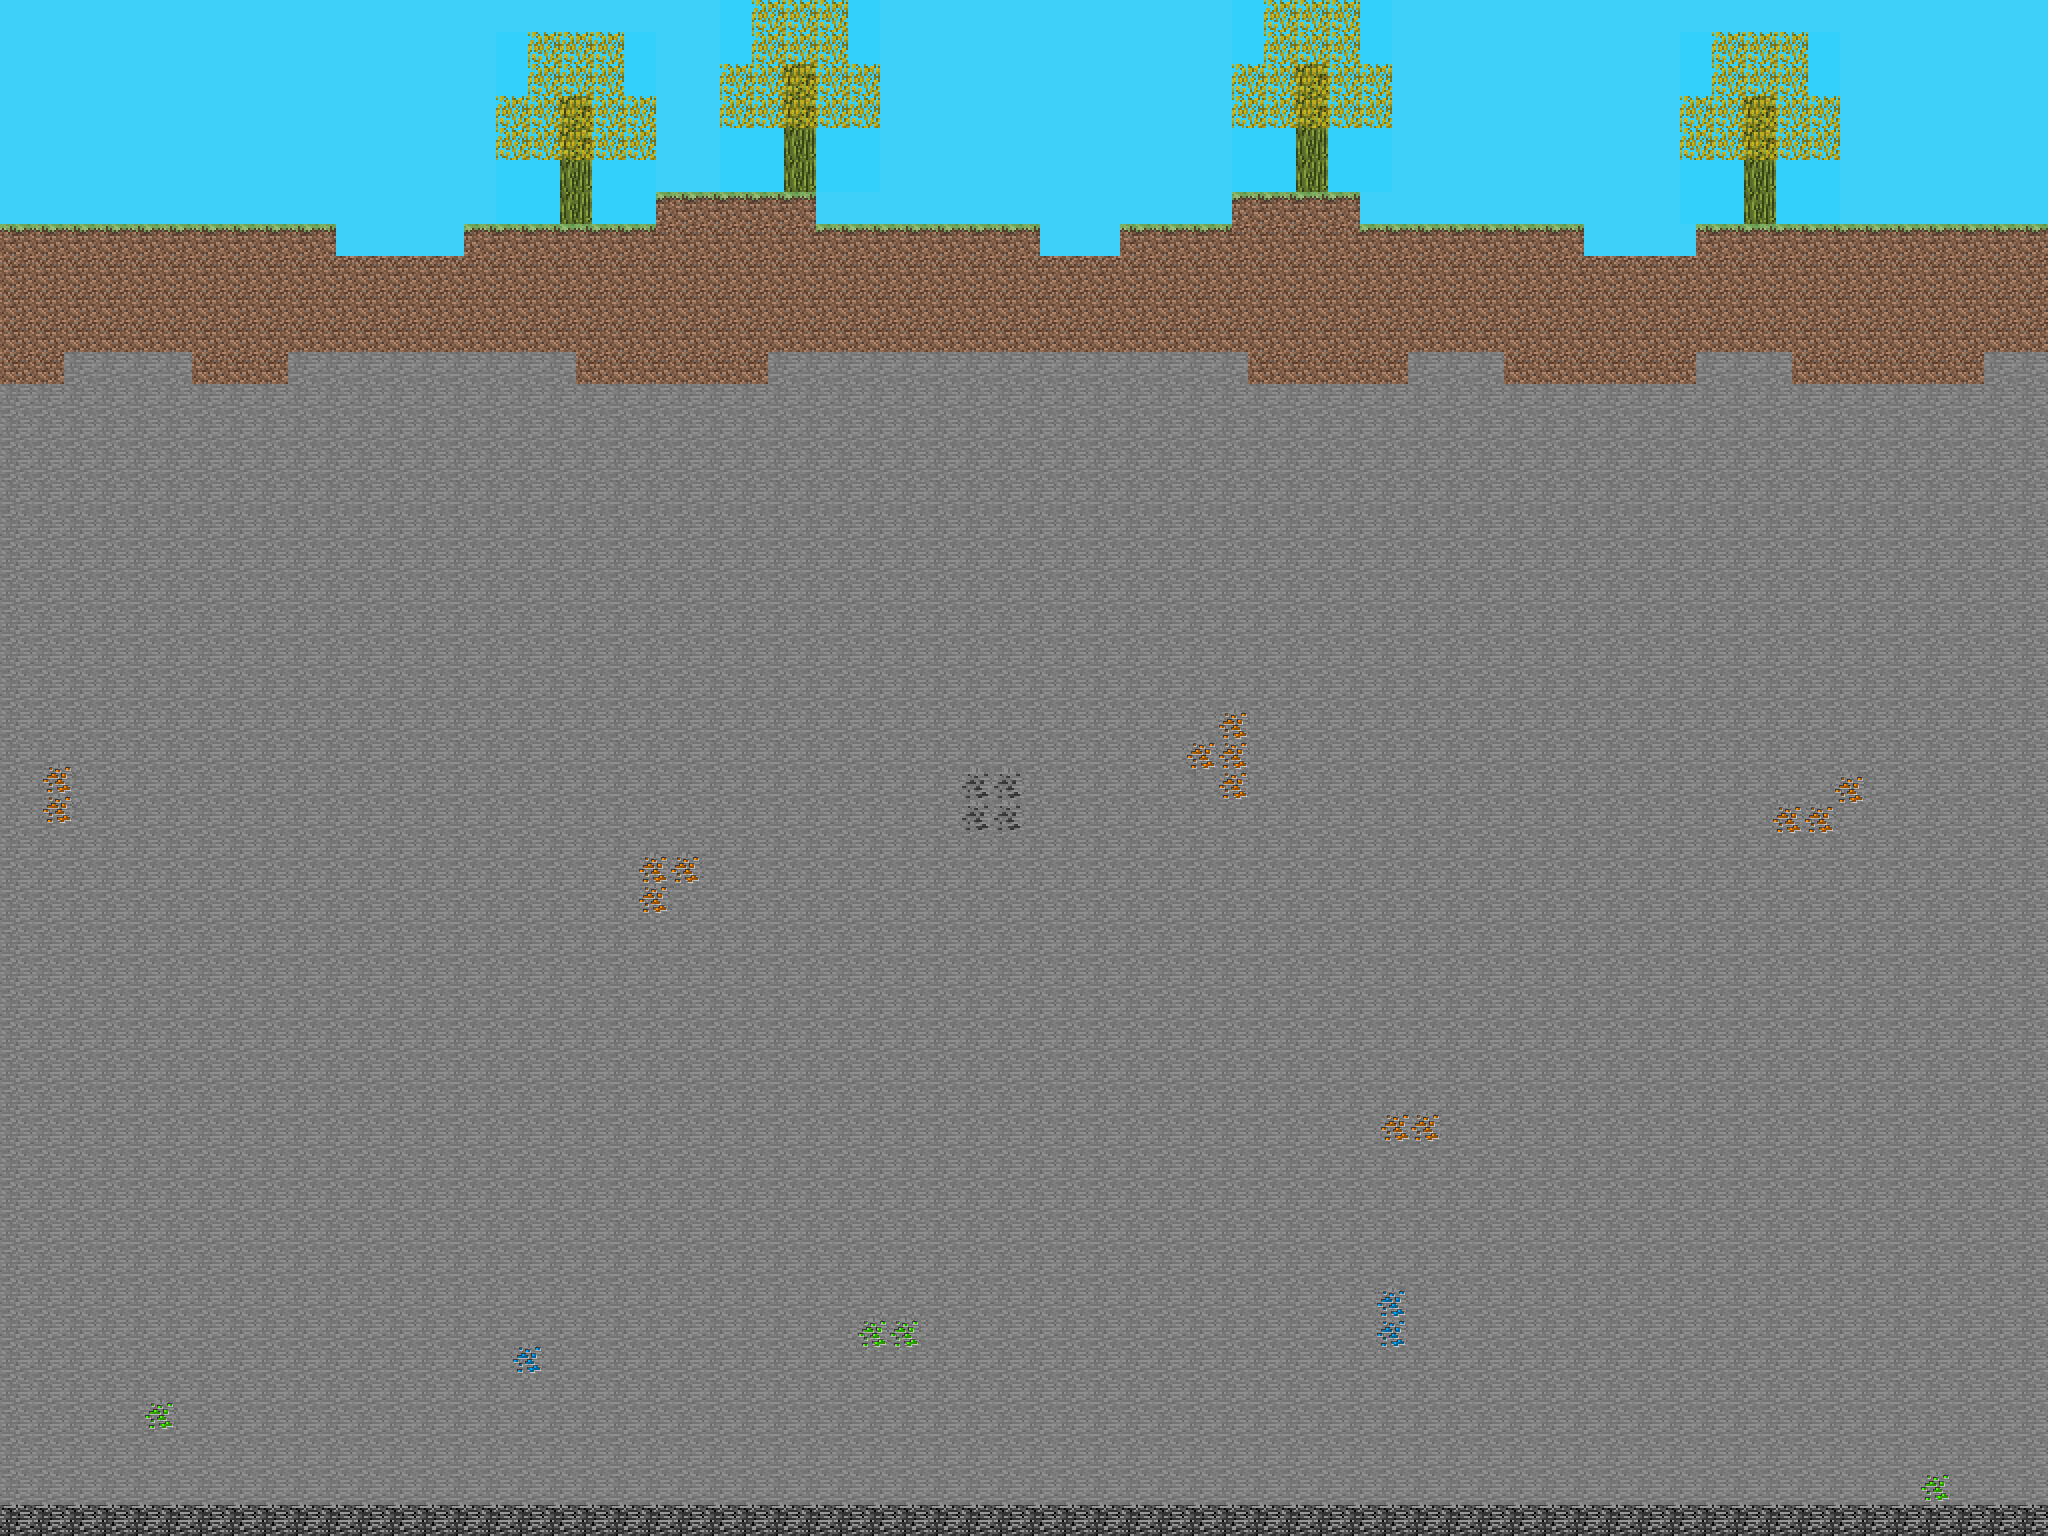
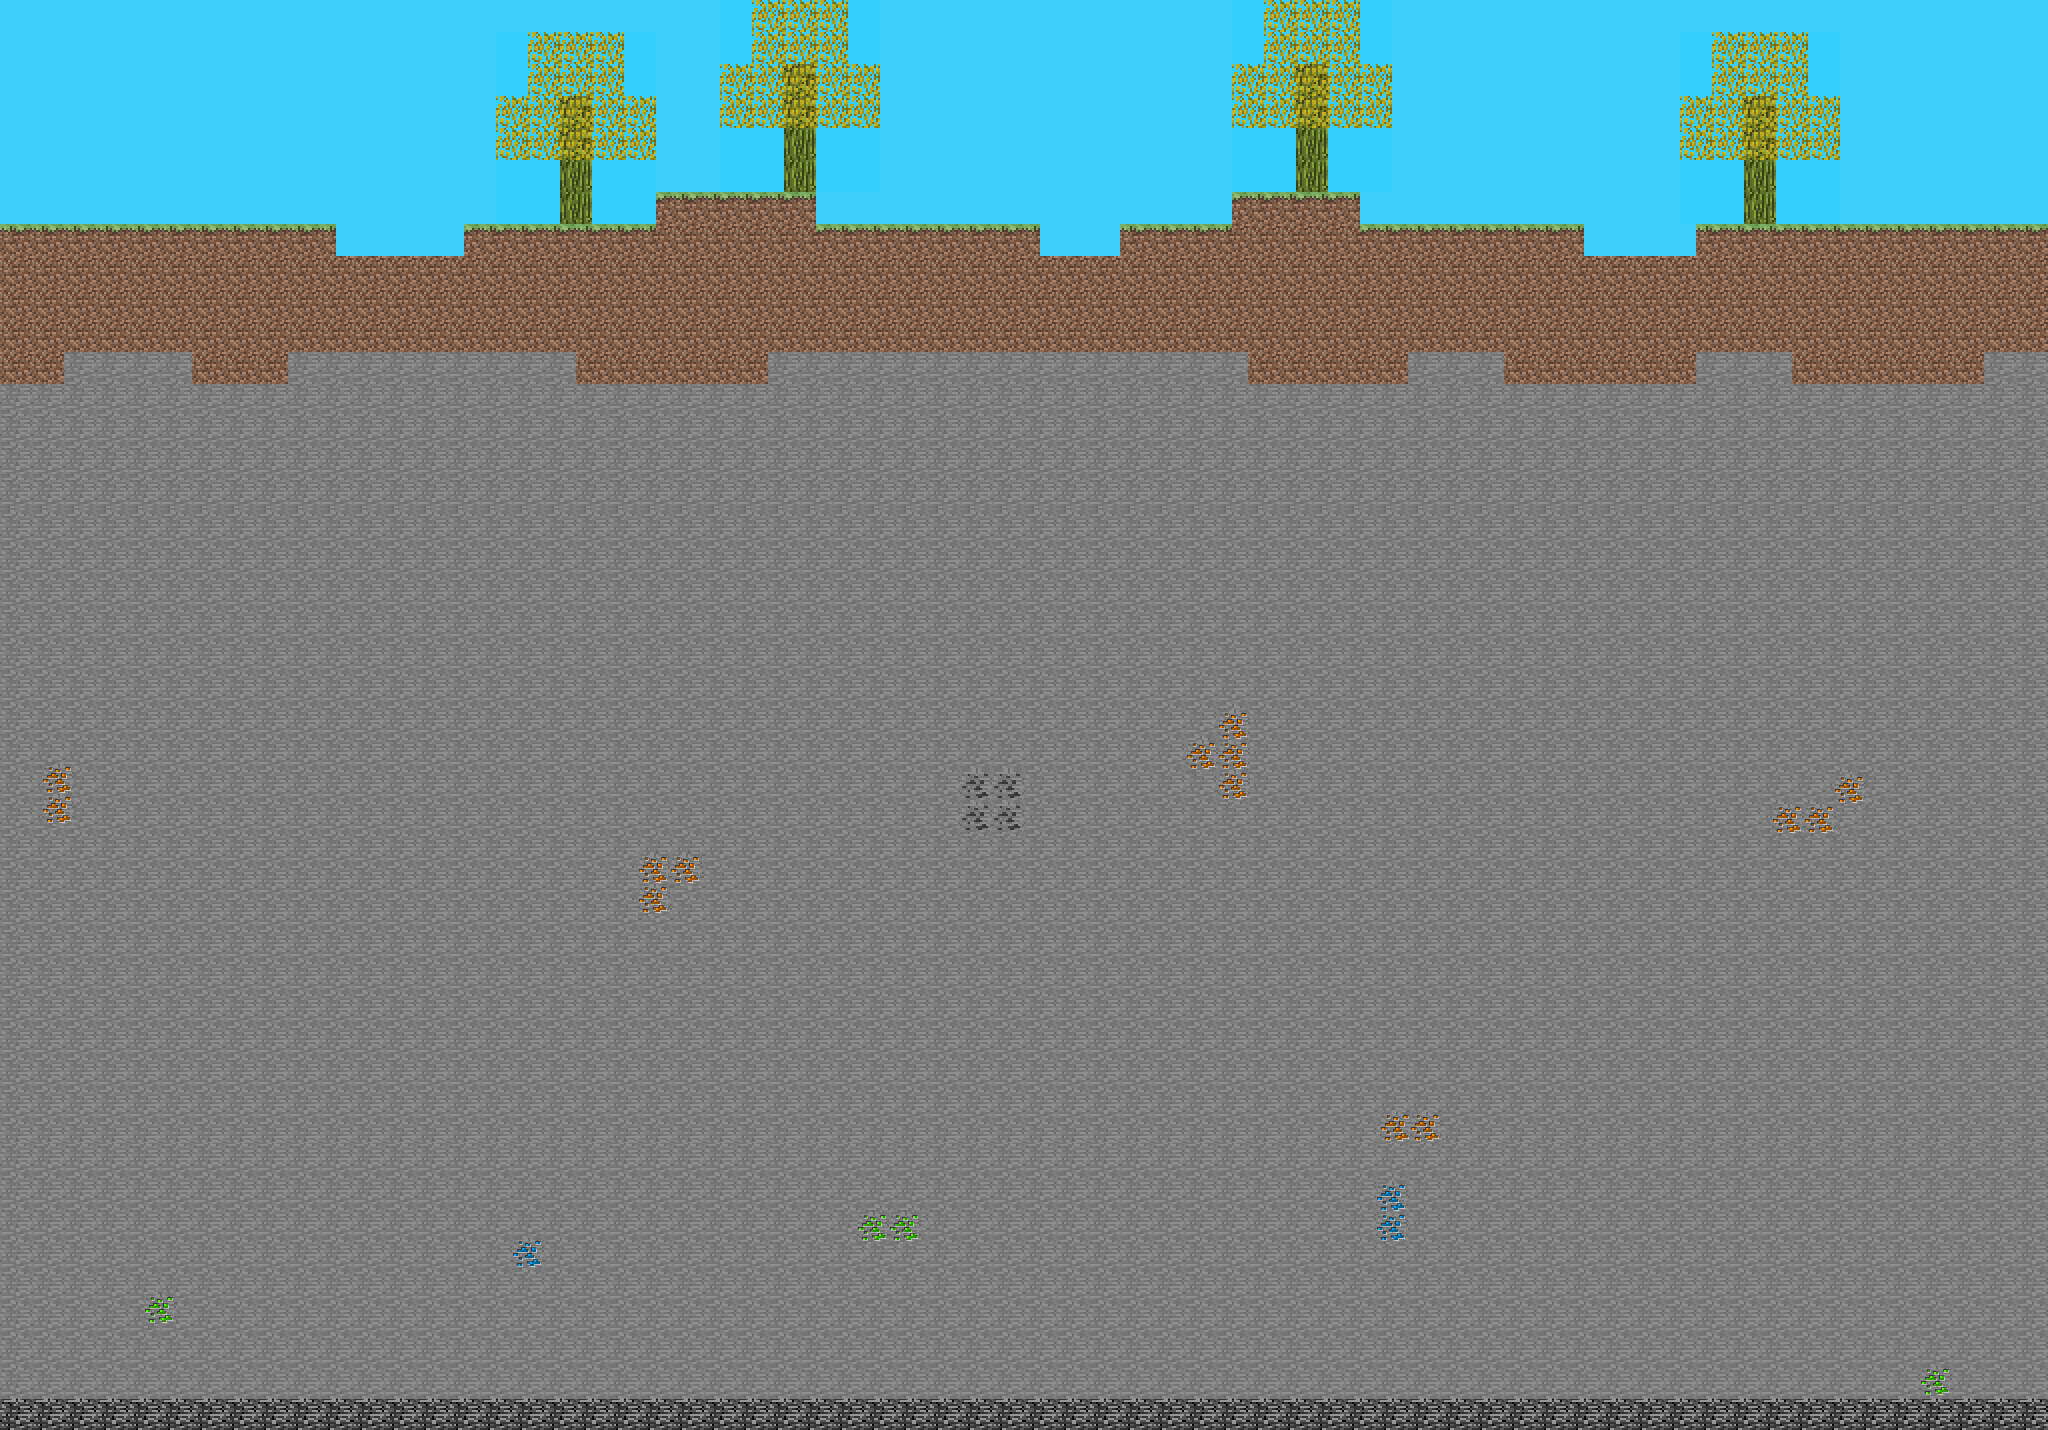
Background work

Changed region(s): [[0.0, 0.3692, 1.0, 1.0], [0.0, 0.0, 1.0, 0.2769], [0.0, 0.3077, 1.0, 0.3385]]

diff --git a/xtrafancy.css b/xtrafancy.css
@@ -14,8 +14,8 @@ h1 {
 body
 {
     margin: 0;
-    background:url(background.png) top left repeat-x;
-    background-size: 67%;
+    background:url(background.png) top left no-repeat;
+    background-size: 100% 100%;
     background-attachment:fixed;
 }
 
